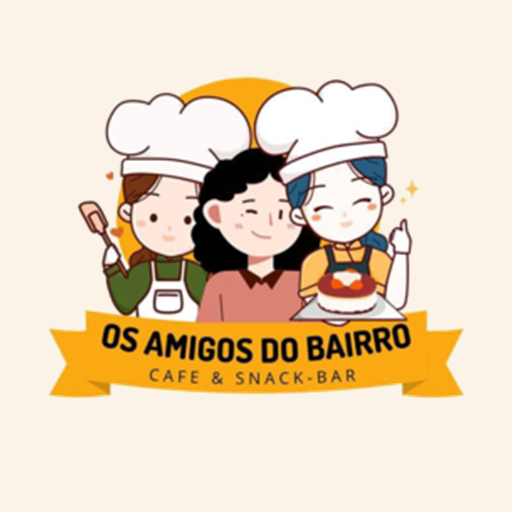
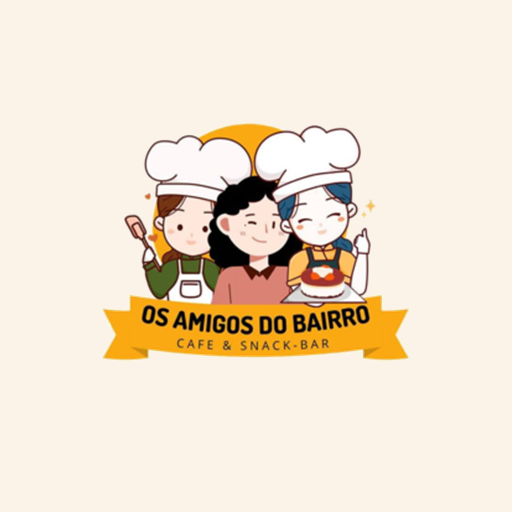
feat(push): push de boas-vindas ao ativar + icone maskable menor (nao corta)
- pushBoasVindas: ao ligar as notificacoes, envia um push imediato ao proprio utilizador ("Notificacoes ativadas") para o cliente ver logo que tipo de notificacao recebe (PT/EN)
- icon-maskable.png: escala 0.84 -> 0.62 (mais margem) para a mascara circular do Samsung deixar de cortar o logo/faixa; "como estava antes" (logo inteiro, com margem)

Changed region(s): [[0.0938, 0.125, 0.9062, 0.7812], [0.2188, 0.1875, 0.3125, 0.2188], [0.1875, 0.2188, 0.2188, 0.2812]]

diff --git a/src/lib/push-actions.ts b/src/lib/push-actions.ts
@@ -36,6 +36,27 @@ export async function savePushSubscription(sub: z.input<typeof subSchema>): Prom
   return { ok: true };
 }
 
+/** Push de boas-vindas ao próprio utilizador, ao ativar — mostra logo o que é. */
+export async function pushBoasVindas(lang?: string): Promise<void> {
+  if (!vapidReady()) return;
+  const supabase = await createClient();
+  const { data: { user } } = await supabase.auth.getUser();
+  if (!user) return;
+  const { data: rows } = await supabase
+    .from("push_subscriptions")
+    .select("endpoint, p256dh, auth")
+    .eq("user_id", user.id);
+  const subs: PushSub[] = (rows ?? []).map((s) => ({ endpoint: s.endpoint as string, p256dh: s.p256dh as string, auth: s.auth as string }));
+  if (!subs.length) return;
+  const en = lang === "en";
+  const { stale } = await sendToSubs(subs, {
+    title: en ? "Notifications on ✓" : "Notificações ativadas ✓",
+    body: en ? "You'll now get the café's news and offers right here." : "A partir de agora recebes aqui as novidades e ofertas do café.",
+    url: "/app",
+  });
+  if (stale.length) await supabase.from("push_subscriptions").delete().in("endpoint", stale);
+}
+
 /** Cliente remove a subscription do dispositivo. */
 export async function removePushSubscription(endpoint: string): Promise<{ ok?: boolean }> {
   const supabase = await createClient();

diff --git a/src/design/screens/PushOptIn.tsx b/src/design/screens/PushOptIn.tsx
@@ -4,7 +4,7 @@ import { useEffect, useState } from "react";
 import { useI18n } from "@/design/i18n";
 import { Card, IconTile, Spinner } from "@/design/ui";
 import { VAPID_PUBLIC_KEY, urlBase64ToUint8Array } from "@/lib/push-config";
-import { savePushSubscription, removePushSubscription } from "@/lib/push-actions";
+import { savePushSubscription, removePushSubscription, pushBoasVindas } from "@/lib/push-actions";
 
 type State = "loading" | "unsupported" | "off" | "on" | "denied" | "busy";
 type PushSubJSON = { endpoint: string; keys: { p256dh: string; auth: string } };
@@ -32,7 +32,7 @@ async function subscribePush(reg: ServiceWorkerRegistration): Promise<PushSubscr
 }
 
 export function PushOptIn() {
-  const { T } = useI18n();
+  const { T, lang } = useI18n();
   const [state, setState] = useState<State>("loading");
   const [msg, setMsg] = useState<string | null>(null);
 
@@ -86,6 +86,7 @@ export function PushOptIn() {
         return;
       }
       setState("on");
+      void pushBoasVindas(lang); // push imediato a confirmar que ligou
     } catch (e) {
       console.error("[push] ativar falhou:", e);
       setMsg(T("push.err") as string);
